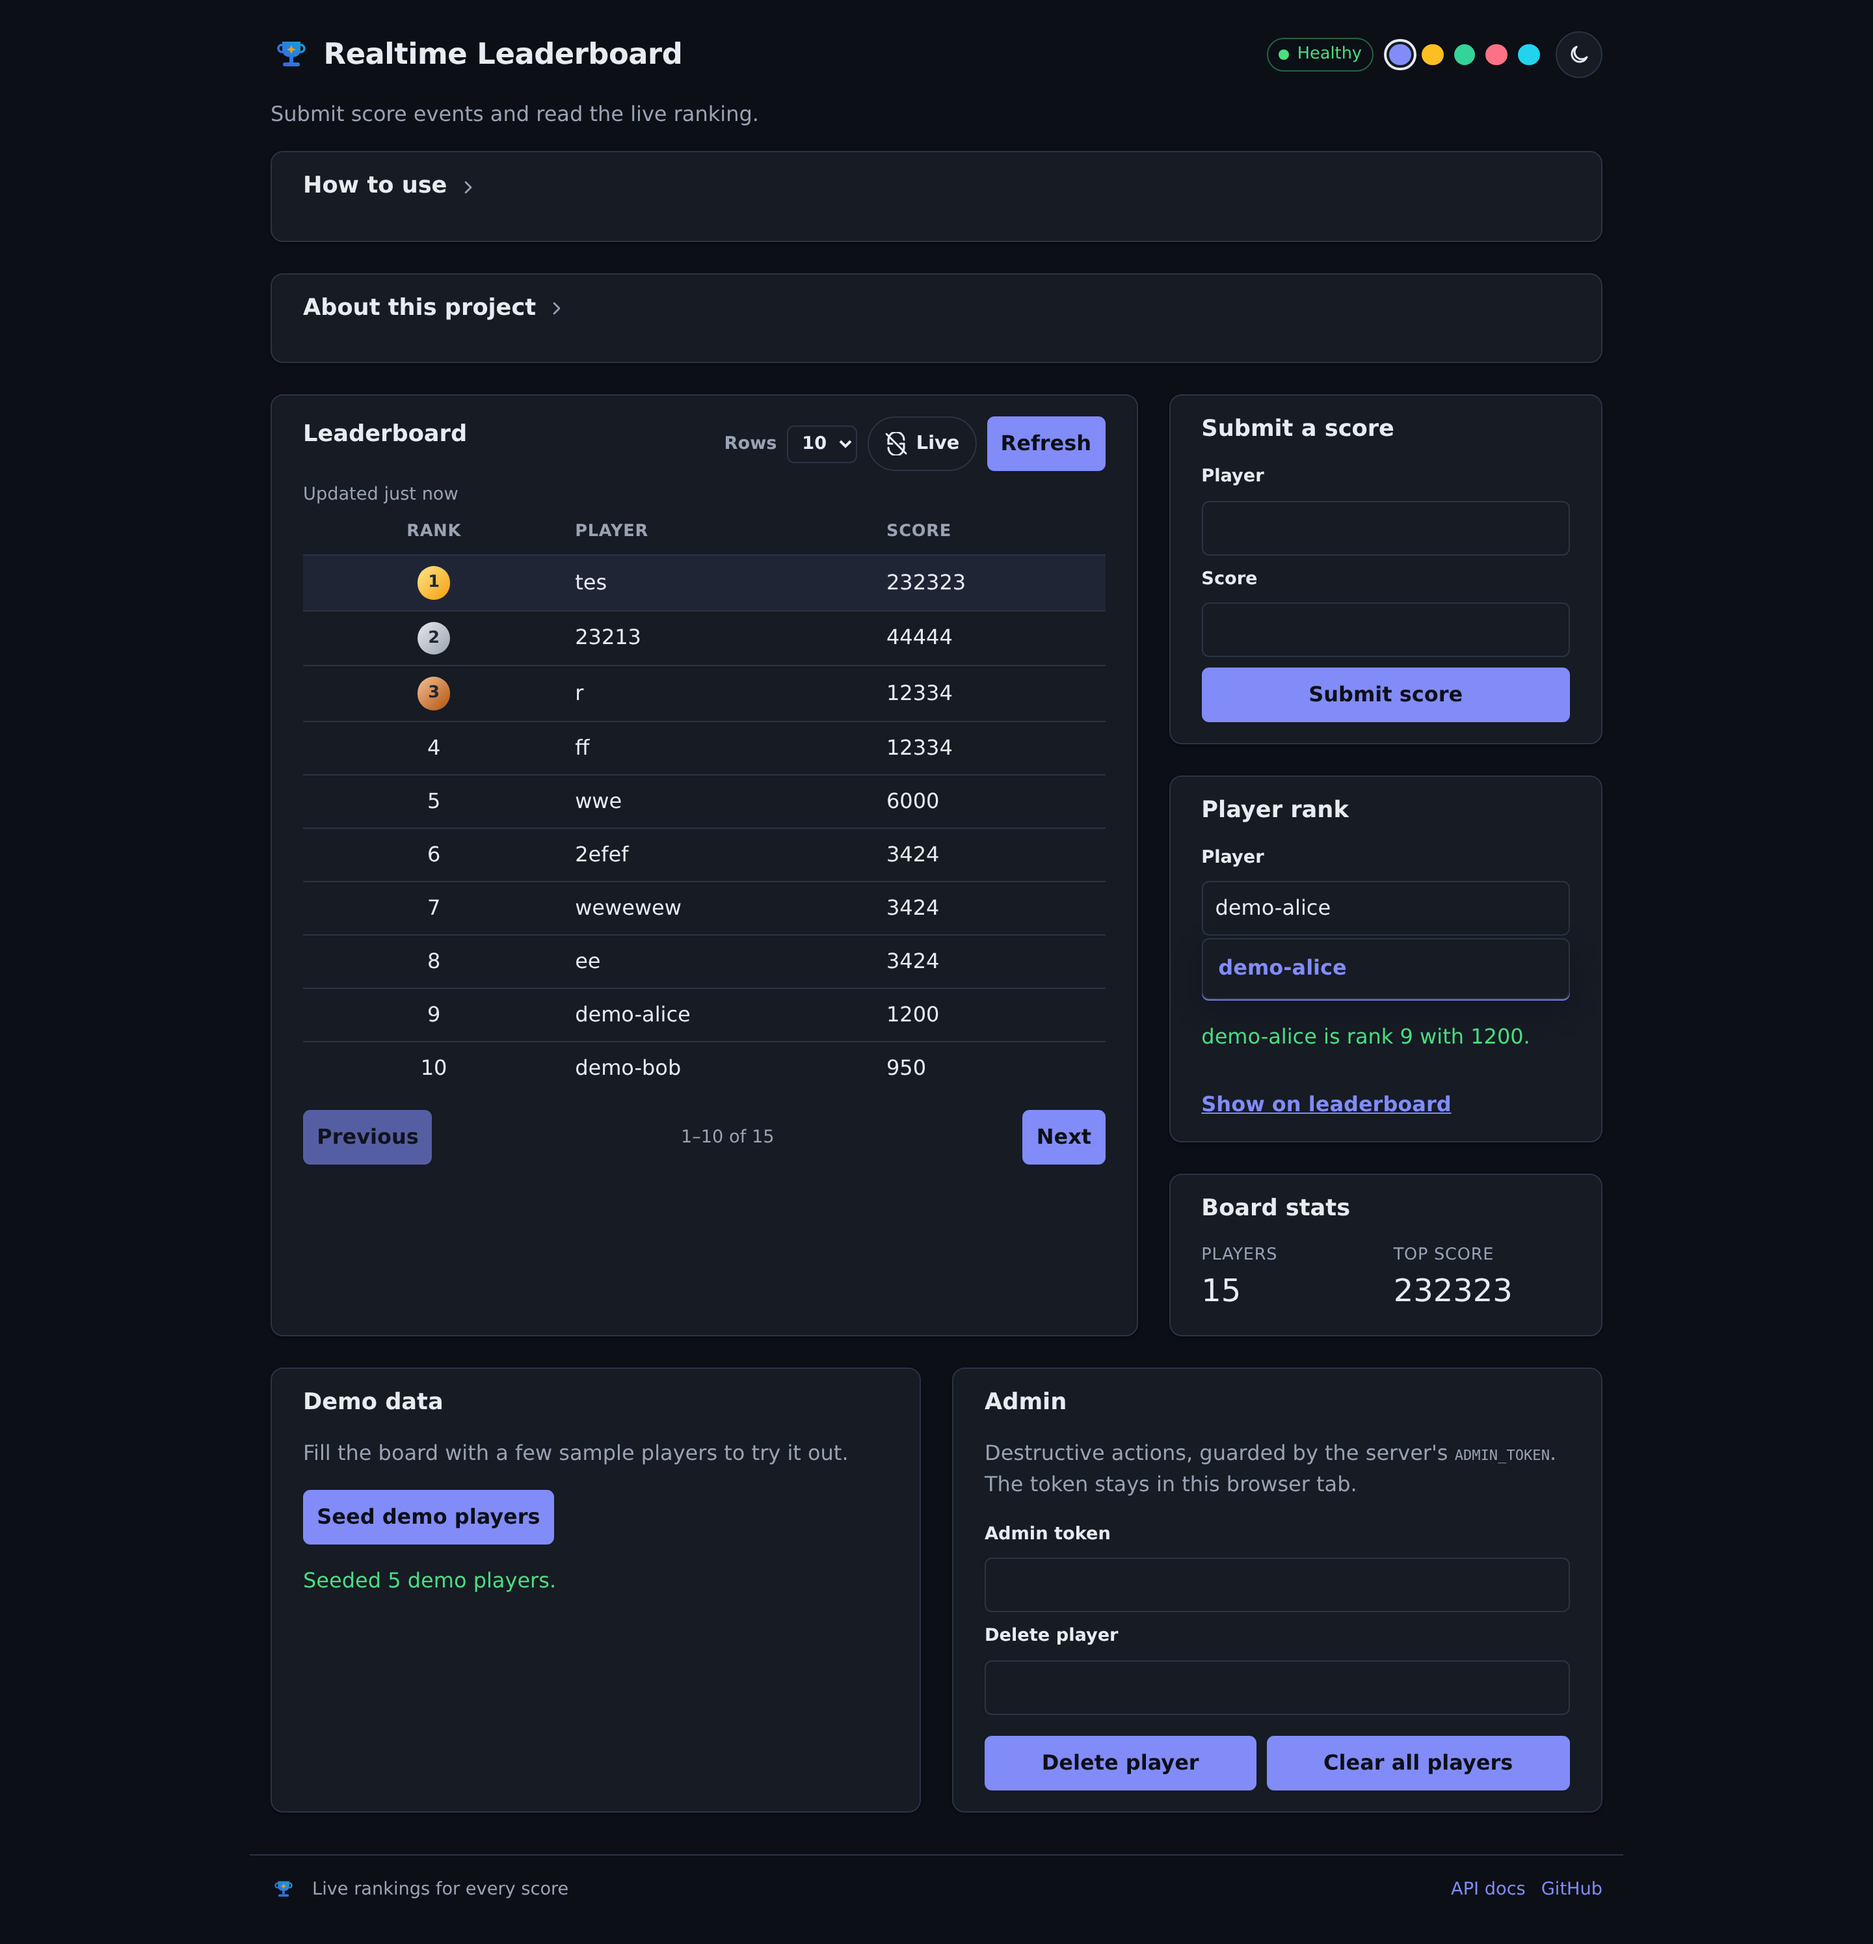
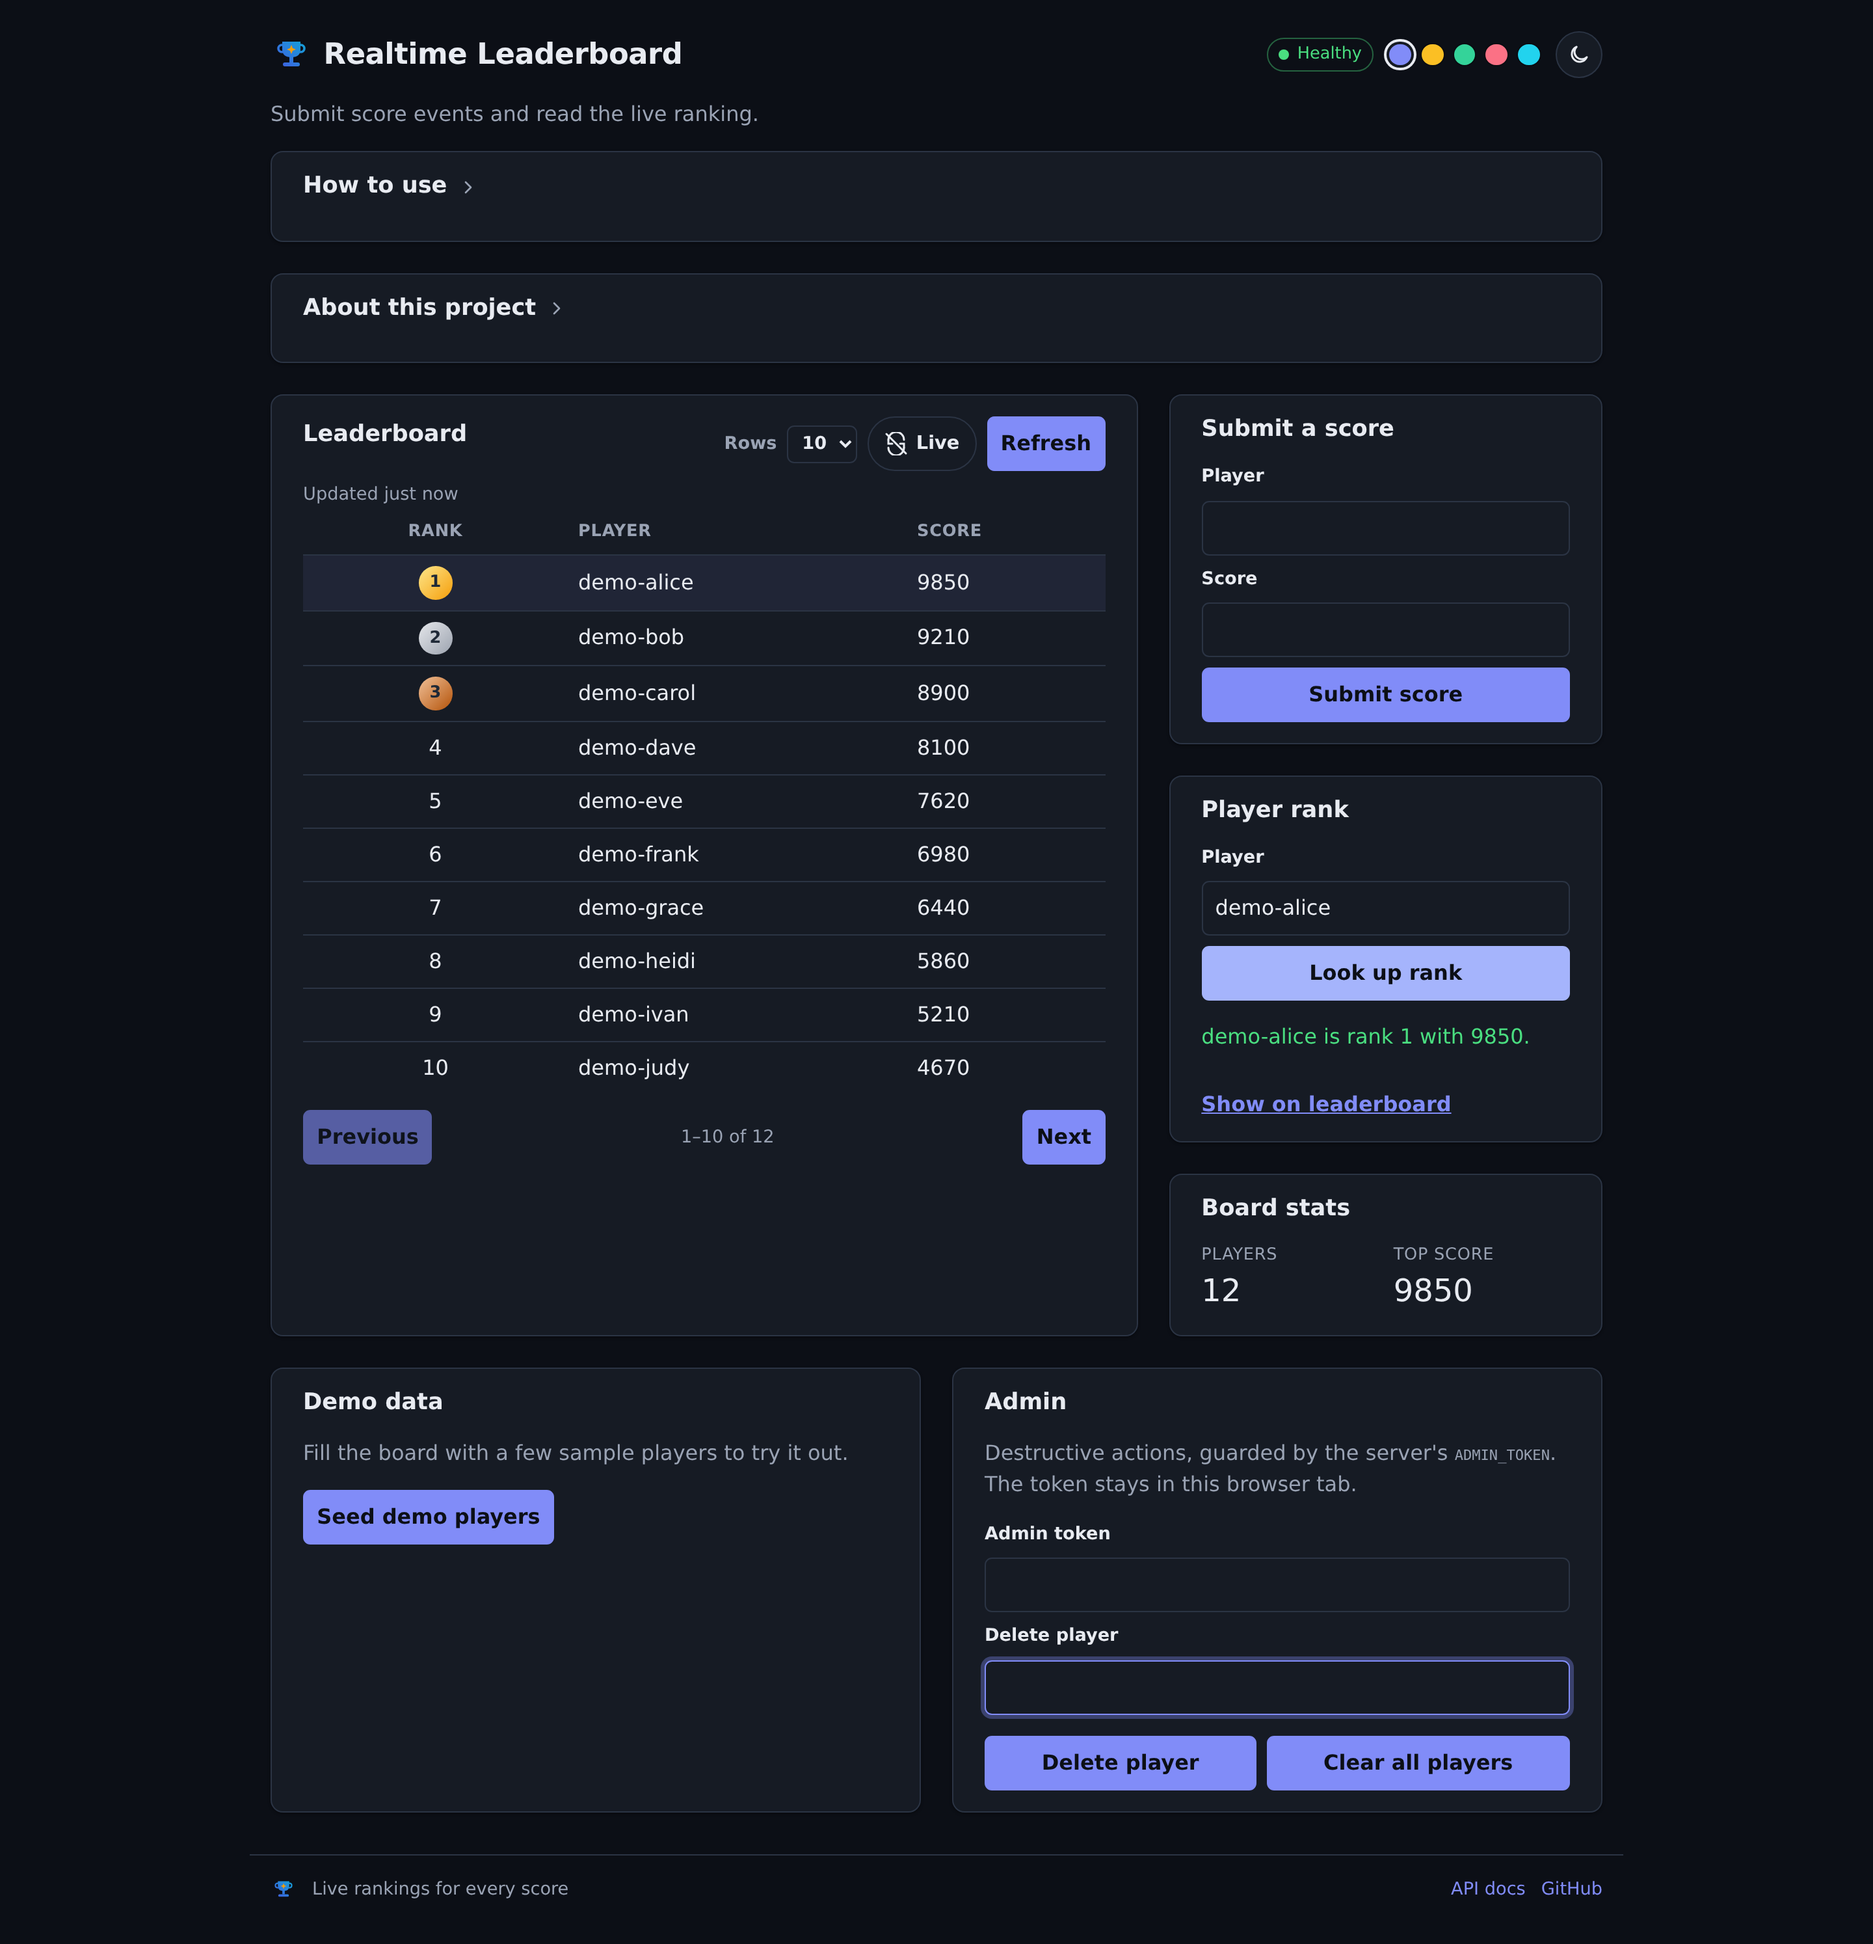
docs: README structure and focus screenshots (#86)
Restructure the README into a cleaner portfolio landing page and add a
screenshot gallery that explains the essential parts of the project.

- Single dark hero screenshot replaces the dark|light table; the dark
  theme reads better as the above-the-fold overview.
- New "Contents" table of contents (anchor links to every section) directly
  after the hero.
- New "Screenshots" section after "Features" with three focused shots and a
  short explanation each: submit a score (POST /scores), rank lookup
  (GET /players/{id}/rank), and the leaderboard with medals/paging/live
  (GET /leaderboard).
- Remove the "Architecture" diagram and "Stack" table (the badge row already
  carries the stack), and the "Author" section (attribution stays in
  "License").
- Rename "Prerequisites" to "Pre Requisites".
- "Getting started" now shows the single Docker Compose path; a one-line
  pointer to running the API locally with `cargo run` moves into
  "Development".
- Delete the now-unreferenced docs/screenshot-light.png.

The three gallery shots were captured in-sandbox with headless Chromium
against the running API + Vite dev server, over a freshly reset board seeded
with 12 clean demo players. Each capture was gated on live-DOM assertions
(expected result text present, no autocomplete dropdown open), and the PNGs
were checked for sane dimensions and non-blank pixel variance (stddev 26-46).

No API or dependency change: capture tooling lives outside the repo, and
[…]

diff --git a/README.md b/README.md
@@ -18,9 +18,19 @@
 
 </div>
 
-| Dark (default) | Light |
-|----------------|-------|
-| ![Realtime Leaderboard — dark theme](docs/screenshot-dark.png) | ![Realtime Leaderboard — light theme](docs/screenshot-light.png) |
+![Realtime Leaderboard — dark theme](docs/screenshot-dark.png)
+
+## Contents
+
+- [Why this exists](#why-this-exists)
+- [Features](#features)
+- [Screenshots](#screenshots)
+- [Pre Requisites](#pre-requisites)
+- [Getting started](#getting-started)
+- [Project layout](#project-layout)
+- [API overview](#api-overview)
+- [Development](#development)
+- [License](#license)
 
 ---
 
@@ -54,32 +64,35 @@ Because the Redis board can drift, a `rebuild` binary recreates it from Postgres
   default, with a light mode and accent presets.
 - **Admin routes** — token-gated `DELETE /players/{id}` and `DELETE /scores`.
 
-## Architecture
+## Screenshots
 
-```text
-Client (browser / curl)
-  │  POST /scores
-  ▼
-Rust API (Axum on Tokio)
-  ├─→ PostgreSQL   durable score events (sqlx; migrations on startup)
-  └─→ Redis        sorted-set leaderboards (live rank + board reads)
-```
+The overview at the top of this page shows how it all fits together; the shots
+below zoom in on the parts that matter.
 
-Both Docker Compose services back the same API contract documented in
-`backend/openapi.json`.
+### Submit a score
 
-## Stack
+![Submit a score and see the new rank](docs/screenshot-score-submit.png)
 
-| Layer          | Choice                                                        |
-|----------------|---------------------------------------------------------------|
-| Backend        | Rust — Axum on Tokio, queried through `sqlx`                  |
-| Database       | PostgreSQL 16                                                  |
-| Cache / ranking| Redis 7 (sorted sets)                                          |
-| Frontend       | React 19 + TypeScript on Vite                                 |
-| Frontend tests | Vitest + Testing Library + MSW                                |
-| Dev environment| Docker Compose, with `mise` for toolchain pins                |
+`POST /scores` is idempotent on `event_id` and keeps the **best** score per
+player. The reply reports where the player now sits, so the submitter sees their
+new position without a second round trip.
 
-## Prerequisites
+### Look up a rank
+
+![Rank lookup showing a player's standing](docs/screenshot-rank-lookup.png)
+
+`GET /players/{player_id}/rank` returns a 1-based rank and best score straight
+from the Redis sorted set; **Show on leaderboard** pages the board to that rank.
+
+### The leaderboard
+
+![Leaderboard with medals, paging, and live refresh](docs/screenshot-leaderboard.png)
+
+`GET /leaderboard?limit=&offset=` pages the sorted set: top-3 medals, a row-size
+selector, an optional 5-second live refresh, and Previous/Next paging with a
+`1–10 of 12` status. Ties keep the earlier event in front.
+
+## Pre Requisites
 
 - **Rust `1.94`** — pinned in `mise.toml` and `backend/Cargo.toml`
   (`rust-version`). Install via [rustup](https://rustup.rs) or `mise install`.
@@ -93,8 +106,6 @@ offline cache, so builds work **without** a running database (that is what
 `SQLX_OFFLINE=true`, used by the Makefile and CI, relies on).
 
 ## Getting started
-
-### Option A — Docker Compose (recommended)
 
 Brings up Postgres, Redis, the API, and the Vite dev server:
 
@@ -125,24 +136,6 @@ make shell          # shell inside the sandbox
 > The API port publishes as `8082` on the host but the container listens on
 > `8080`; the frontend dev server proxies API calls to it, so requests are
 > same-origin and no CORS layer is needed.
-
-### Option B — Run it locally
-
-Copy the env template and start Postgres + Redis however you like (the values in
-`.env.example` point at the Compose host ports):
-
-```bash
-cp .env.example .env      # DATABASE_URL, REDIS_URL, PORT, (optional) ADMIN_TOKEN
-
-# Backend (from backend/) — migrations run automatically on startup
-cd backend
-cargo run                 # http://localhost:8080
-
-# Frontend (from frontend/) — in a second terminal
-cd frontend
-npm ci
-API_PROXY_TARGET=http://localhost:8080 npm run dev   # http://localhost:5173
-```
 
 ## Project layout
 
@@ -232,9 +225,8 @@ npm run build
 `make check` is the gate for feature branches. GitHub Actions runs the same jobs
 on `dev` → `main` pull requests.
 
-## Author
-
-**Felipe Inoue** — portfolio: [github.com/fiwon123/realtime-leaderboard](https://github.com/fiwon123/realtime-leaderboard)
+To run the API without Compose, start it from `backend/` with `cargo run`; it
+reads `DATABASE_URL` and `REDIS_URL` and applies migrations on startup.
 
 ## License
 
